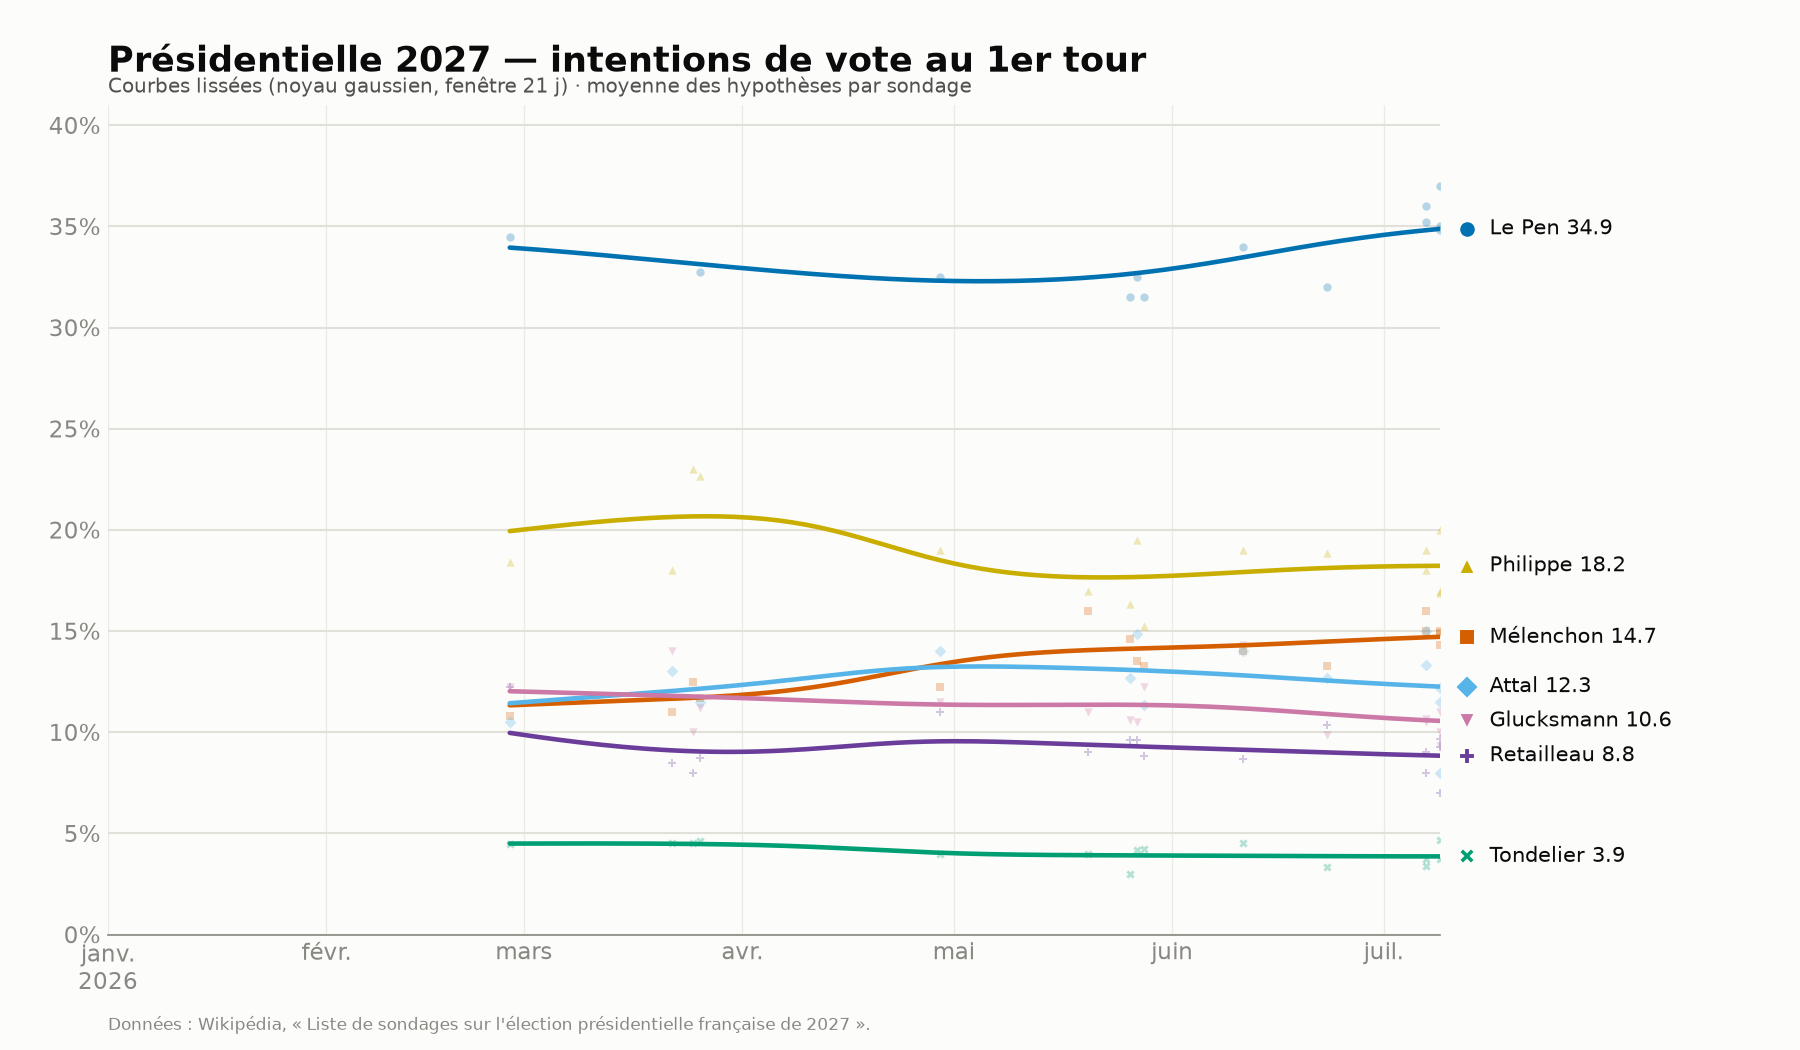
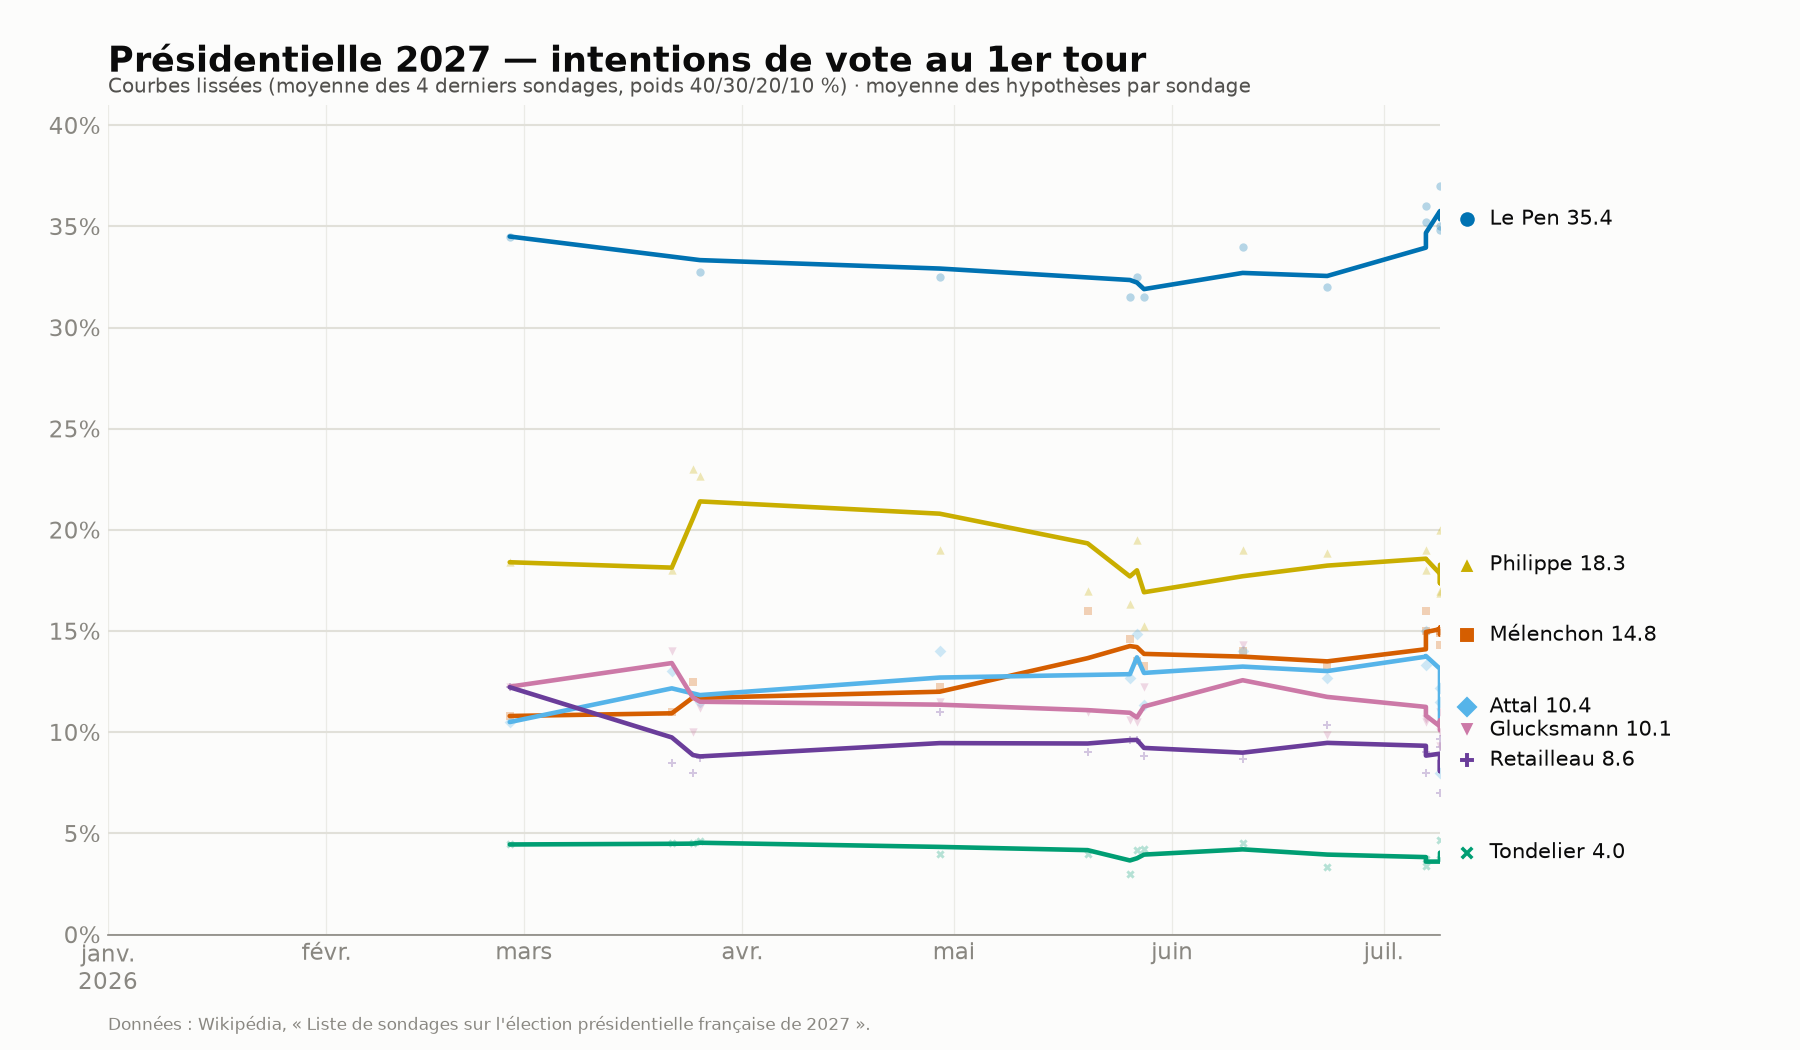
Lisse les sondages par nombre de sondages, pas par fenêtre calendaire
La courbe lissée pondère désormais les 4 derniers sondages de chaque
candidat (40/30/20/10 %) plutôt que d'utiliser un noyau gaussien sur
21 jours, qui sur- ou sous-pondérait selon la fréquence de publication.

Ajoute aussi un workflow GitHub Actions qui régénère le graphique
toutes les heures depuis Wikipédia et pousse le résultat s'il a changé.

diff --git a/Sondpres/sondages_2027.py b/Sondpres/sondages_2027.py
@@ -9,6 +9,13 @@ Le graphique reflète donc toujours l'état courant de la page. Si de nouvelles
 lignes (nouveaux sondages) y sont ajoutées, il suffit de relancer le script
 (ou d'utiliser --watch) pour que le graphique se mette à jour automatiquement.
 
+Le lissage se fait sondage par sondage (pas jour par jour) : chaque point de
+la courbe est la moyenne des N derniers sondages du candidat, pondérée
+linéairement du plus récent (poids le plus fort) au plus ancien. Cela évite
+qu'une fenêtre calée sur le calendrier ne sur- ou sous-pondère un candidat
+selon la fréquence, très irrégulière, à laquelle il est inclus dans les
+sondages.
+
 Candidats suivis : Le Pen, Mélenchon, Philippe, Attal, Glucksmann,
 Retailleau, Tondelier. Période : à partir du 1er janvier 2026.
 
@@ -43,7 +50,7 @@ PAGE_TITLE = "Liste de sondages sur l'élection présidentielle française de 20
 API_URL = "https://fr.wikipedia.org/w/api.php"
 USER_AGENT = "sondages-2027-chart/1.0 (script pédagogique)"
 START = date(2026, 1, 1)          # on ne garde que les sondages à partir de cette date
-BANDWIDTH_DAYS = 21               # fenêtre du lissage (noyau gaussien), en jours
+POLL_WINDOW = 4                   # nombre de sondages agrégés dans la moyenne pondérée
 
 # Candidats retenus.  Chaque entrée : nom de colonne Wikipédia (préfixe du
 # nom de famille), couleur, marqueur.  La palette a été validée pour être
@@ -248,20 +255,35 @@ def extract_polls(html: str) -> pd.DataFrame:
 
 
 # ---------------------------------------------------------------------------
-# 3. Lissage (régression locale à noyau gaussien - sans scipy)
+# 3. Lissage (moyenne mobile pondérée sur les N derniers sondages)
 # ---------------------------------------------------------------------------
-def gaussian_smooth(days, values, grid, bw):
+def weighted_poll_average(values, window: int = POLL_WINDOW):
+    """Moyenne mobile pondérée : à chaque sondage, moyenne des `window`
+    derniers sondages (lui compris), poids décroissant linéairement du plus
+    récent au plus ancien (pour window=4 : 40 %, 30 %, 20 %, 10 %).
+
+    Contrairement à un lissage temporel, l'unité de la fenêtre est « un
+    sondage », pas « un jour » : deux sondages publiés à trois jours
+    d'écart pèsent autant l'un que l'autre que deux sondages publiés à
+    trois semaines d'écart. En début de série, quand moins de `window`
+    sondages sont disponibles, les poids restants sont renormalisés pour
+    sommer à 1.
+    """
     import numpy as np
-    days = np.asarray(days, float)
     values = np.asarray(values, float)
-    grid = np.asarray(grid, float)
-    out = np.full(grid.shape, np.nan)
-    for i, g in enumerate(grid):
-        w = np.exp(-0.5 * ((g - days) / bw) ** 2)
-        sw = w.sum()
-        if sw > 1e-3:
-            out[i] = (w * values).sum() / sw
+    out = np.empty_like(values)
+    for i in range(len(values)):
+        k = min(window, i + 1)
+        w = np.arange(1, k + 1, dtype=float)          # le plus ancien du lot pèse le moins
+        out[i] = np.dot(w, values[i - k + 1:i + 1]) / w.sum()
     return out
+
+
+def poll_window_weights_pct(window: int = POLL_WINDOW) -> str:
+    """Ex. « 40/30/20/10 % » pour window=4, du plus récent au plus ancien."""
+    w = list(range(window, 0, -1))
+    total = sum(w)
+    return "/".join(f"{100 * wi / total:.0f}" for wi in w) + " %"
 
 
 # ---------------------------------------------------------------------------
@@ -289,11 +311,10 @@ def make_chart(df: pd.DataFrame, revision: str, outfile: str, show: bool):
 
     xmin = num(START)
     xmax = df["date"].map(num).max()
-    grid = np.arange(xmin, xmax + 1)
 
     end_labels = []  # (y, couleur, texte) pour placement anti-collision
     for name, color, marker in CANDIDATES:
-        sub = df[df["candidat"] == name]
+        sub = df[df["candidat"] == name].sort_values("date")
         if sub.empty:
             continue
         d = sub["date"].map(num).to_numpy()
@@ -303,13 +324,10 @@ def make_chart(df: pd.DataFrame, revision: str, outfile: str, show: bool):
         ax.scatter(d, y, s=16, color=color, alpha=0.28, marker=marker,
                    linewidths=0, zorder=2)
 
-        # courbe lissée, restreinte à l'étendue des données du candidat
-        gmask = (grid >= d.min()) & (grid <= d.max())
-        gg = grid[gmask]
-        if gg.size == 0:
-            continue
-        sm = gaussian_smooth(d, y, gg, BANDWIDTH_DAYS)
-        ax.plot(gg, sm, color=color, lw=2.2, zorder=3, solid_capstyle="round")
+        # courbe lissée : moyenne pondérée des derniers sondages, un point
+        # par sondage (donc placée à sa vraie date, reliée en ligne brisée)
+        sm = weighted_poll_average(y)
+        ax.plot(d, sm, color=color, lw=2.2, zorder=3, solid_capstyle="round")
         end_labels.append([sm[-1], color, marker, f"{name} {sm[-1]:.1f}"])
 
     # --- libellés directs à droite, sans chevauchement -----------------------
@@ -347,8 +365,8 @@ def make_chart(df: pd.DataFrame, revision: str, outfile: str, show: bool):
     ax.set_title("Présidentielle 2027 — intentions de vote au 1er tour",
                  fontsize=17, fontweight="bold", loc="left", color=INK, pad=16)
     ax.text(0, 1.015,
-            f"Courbes lissées (noyau gaussien, fenêtre {BANDWIDTH_DAYS} j) · moyenne des "
-            f"hypothèses par sondage",
+            f"Courbes lissées (moyenne des {POLL_WINDOW} derniers sondages, poids "
+            f"{poll_window_weights_pct()}) · moyenne des hypothèses par sondage",
             transform=ax.transAxes, fontsize=9.5, color=INK_SECOND)
     ax.text(0, -0.115,
             "Données : Wikipédia, « Liste de sondages sur l'élection présidentielle "